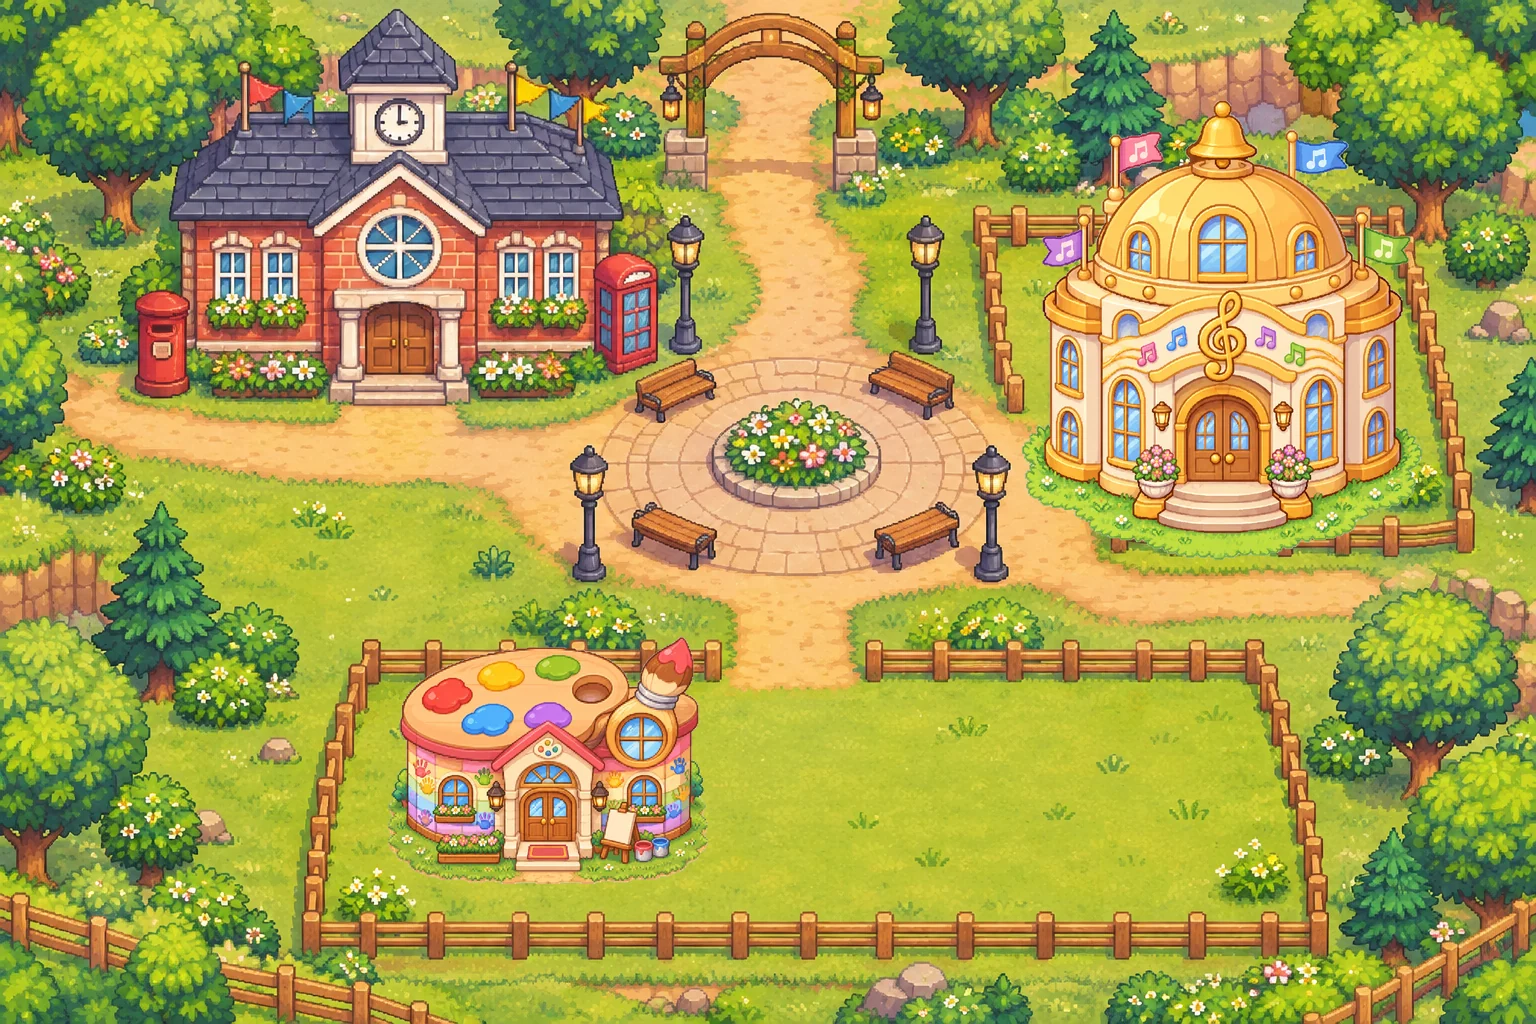
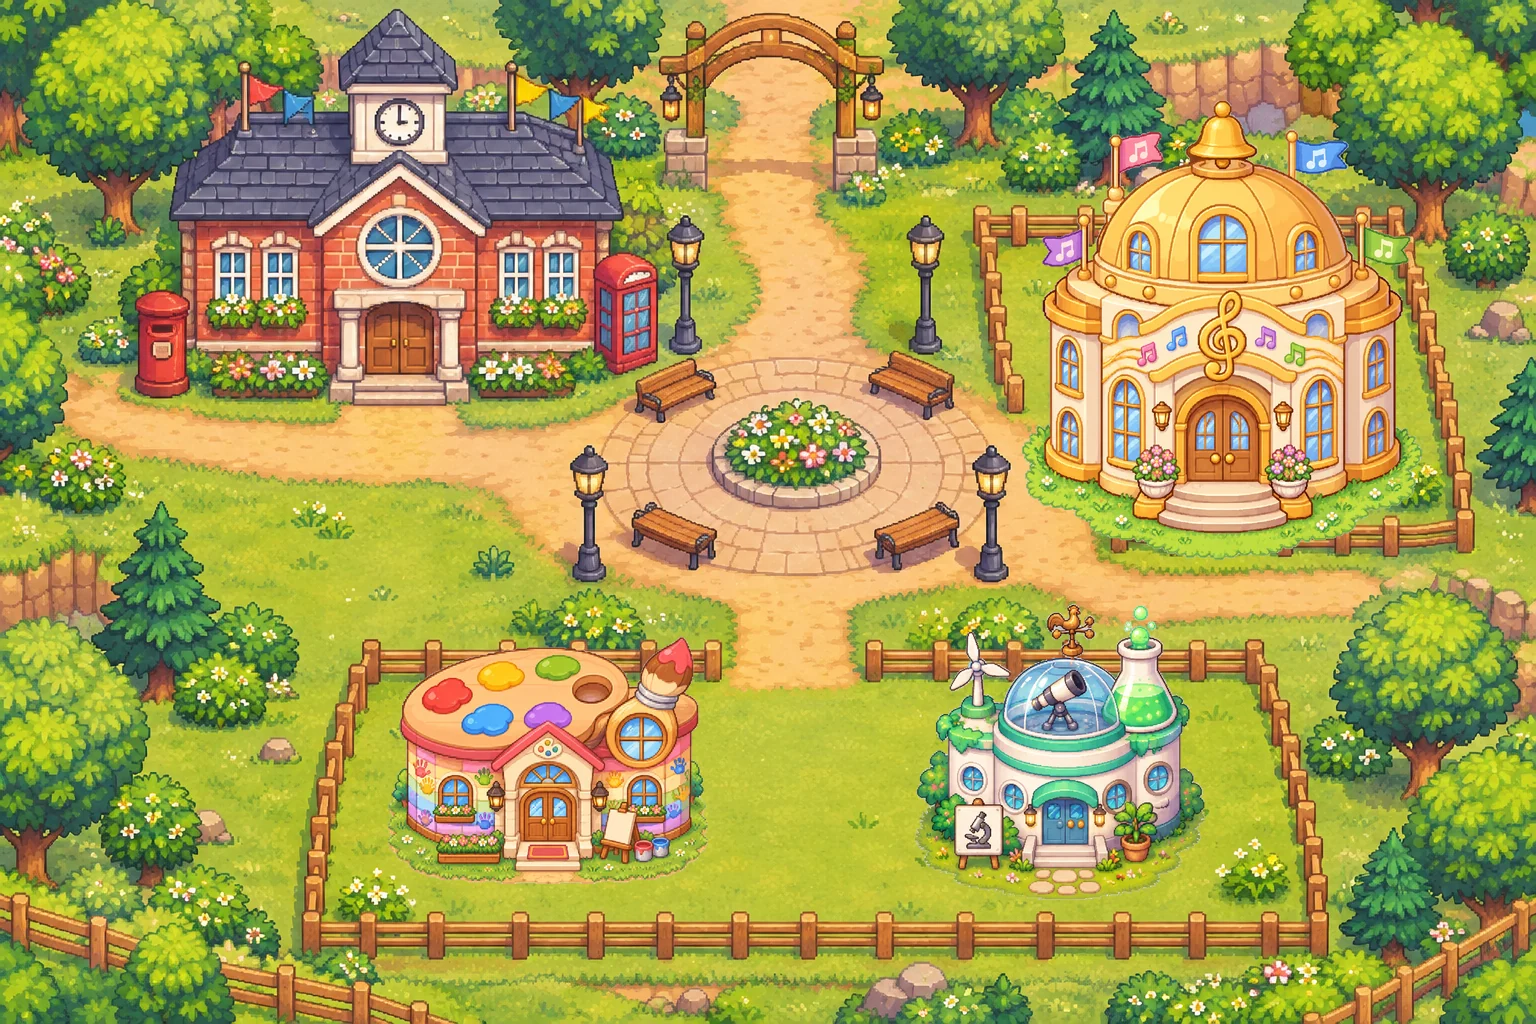
Science lab building, three room maps and 궁금 박사
Put the science lab next to the art museum on 교과 언덕, trace the
three grade rooms over their pictures, add the 궁금 박사 NPC and replace
the temporary entrance with a grade picker door. Build 23.

Claude-Session: https://claude.ai/code/session_015rRJ5HYZpVswbA4n6xguLu

Changed region(s): [[0.5938, 0.5938, 0.7812, 0.875]]

diff --git a/village/js/maps.js b/village/js/maps.js
@@ -161,7 +161,7 @@ const Maps = (() => {
 
   // ───────────────────────── 교과 언덕 ─────────────────────────
   // 그림 1536x1024를 48x32칸으로 나눠요. 위쪽 아치 문은 배움 동산으로 이어져요.
-  // 영어 학교 문에 들어가면 학년(1-2, 3-4, 5-6)을 골라요. 울타리 친 빈 땅 두 곳은 나중에 다른 교과 건물 자리예요.
+  // 영어 학교 문에 들어가면 학년(1-2, 3-4, 5-6)을 골라요. 오른쪽 땅에는 음악당, 아래쪽 땅에는 미술관과 과학 연구소가 있어요.
   const SUBJECTS = {
     id: "subjects", name: "교과 언덕", w: 48, h: 32, img: "assets/subjects.webp", backdrop: "#4e8a3a",
     walk: [[3, 12, 31, 19], [22, 2, 27, 11], [32, 17, 43, 19], [23, 20, 26, 21], [4, 20, 9, 26], [11, 11, 12, 11],
@@ -173,7 +173,8 @@ const Maps = (() => {
       [23, 13, 26, 15], [18, 14, 18, 17], [31, 14, 31, 17],          // 꽃밭, 아래 가로등
       [19, 16, 22, 17], [27, 16, 29, 17],                           // 아래 벤치
       [31, 12, 31, 13],                                             // 오른쪽 울타리 끝
-      [12, 20, 22, 25], [12, 26, 15, 26], [18, 26, 22, 26]          // 미술관 건물(앞문 16~17은 열어 둬요)
+      [12, 20, 22, 25], [12, 26, 15, 26], [18, 26, 22, 26],         // 미술관 건물(앞문 16~17은 열어 둬요)
+      [29, 21, 37, 25], [29, 26, 31, 26], [34, 26, 37, 26], [30, 27, 31, 27] // 과학 연구소 건물과 간판(앞문 32~33)
     ],
     doors: [
       { id: "engschool", x: 11, y: 11, w: 2, out: { x: 11, y: 13, dir: "down" }, pick: ["eng12", "eng34", "eng56"], name: "영어 학교", emoji: "🔤" },
@@ -183,14 +184,14 @@ const Maps = (() => {
       // 아래쪽 땅: 미술관(울타리 위쪽 틈으로 들어가서 앞문으로). 학년 방 3개와 우리 반 전시실을 골라요.
       { id: "artmuseum", x: 16, y: 26, w: 2, out: { x: 17, y: 27, dir: "down" }, pick: ["art12", "art34", "art56"], name: "미술관", emoji: "🎨",
         extra: [{ emoji: "🏛", name: "우리 반 전시실", activity: "artgallery", sub: () => "친구들 그림 구경 · " + Net.gallery.length + "점" }] },
-      // 미술관 오른쪽 땅: 과학 연구소 자리. 건물 그림이 오기 전까지는 이 자리에서 과학 방 고르기 창이 열려요.
-      { id: "scilab", x: 31, y: 24, w: 2, activity: "scihub", out: { x: 31, y: 26, dir: "up" }, name: "과학 연구소", emoji: "🔬" }
+      // 미술관 오른쪽: 과학 연구소(앞문으로 들어가서 학년 방을 골라요)
+      { id: "scilab", x: 32, y: 26, w: 2, out: { x: 32, y: 27, dir: "down" }, pick: ["sci12", "sci34", "sci56"], name: "과학 연구소", emoji: "🔬" }
     ],
-    areas: [{ id: "engschool", r: [5, 0, 19, 10] }, { id: "musichall", r: [32, 3, 44, 16] }, { id: "artmuseum", r: [12, 20, 22, 26] }],
+    areas: [{ id: "engschool", r: [5, 0, 19, 10] }, { id: "musichall", r: [32, 3, 44, 16] }, { id: "artmuseum", r: [12, 20, 22, 26] }, { id: "scilab", r: [29, 21, 37, 26] }],
     spawn: { x: 24, y: 4, dir: "down" },
     npcs: [
       { id: "jenny", name: "제니 선생님", x: 15, y: 14, dir: "down",
-        lines: ["Hello! 나는 제니 선생님이야. 여기는 교과 언덕이야.", "빨간 벽돌 건물이 영어 학교야. 들어가면 1-2학년, 3-4학년, 5-6학년 방을 고를 수 있어.", "울타리 친 빈 땅에는 곧 다른 교과 건물이 생길 거야. See you!"] }
+        lines: ["Hello! 나는 제니 선생님이야. 여기는 교과 언덕이야.", "빨간 벽돌 건물이 영어 학교야. 들어가면 1-2학년, 3-4학년, 5-6학년 방을 고를 수 있어.", "오른쪽에는 음악당, 아래쪽 울타리 땅에는 미술관과 과학 연구소가 있어. See you!"] }
     ]
   };
 
@@ -242,6 +243,25 @@ const Maps = (() => {
       stations: [{ x: q.solid[0][0], y: 7, w: q.solid[0][2] - q.solid[0][0] + 1, h: 3, activity: id, label: "📝 미션 탁자" }].concat(q.stations || []),
       npcs: [{ id: "allok", name: "알록 선생님", x: 6, y: 8, dir: "right", activity: id, actionLabel: "📝 미션 시작",
         lines: ["안녕! 여기는 " + q.name + "이야.", "가운데 탁자에서 미술 미션을 풀 수 있어. 퀴즈 10개와 만들기 1개가 있어!", "그린 그림은 우리 반 전시실에 걸어서 친구들에게 보여 줄 수 있어."] }]
+    };
+  });
+
+  // 과학 방: 그림 크기가 방마다 달라서 칸 수도 달라요(한 칸이 그림에서 약 32px). 아래 가운데 문, 가운데 긴 탁자.
+  const SCI_ROOMS = {
+    sci12: { name: "탐구 놀이방", emoji: "🌱", w: 24, h: 16, floor: [2, 8, 19, 13], door: { x: 11, y: 14, w: 2 }, table: [8, 9, 14, 11], npc: [6, 9],
+      solid: [[2, 8, 5, 9], [2, 10, 4, 12], [6, 8, 14, 8], [15, 8, 19, 9], [2, 13, 6, 13], [16, 13, 18, 13]] },
+    sci34: { name: "실험실", emoji: "🧪", w: 20, h: 16, floor: [1, 8, 18, 12], door: { x: 10, y: 13, w: 2 }, table: [7, 9, 13, 11], npc: [4, 10],
+      solid: [[1, 8, 4, 8], [1, 9, 3, 12], [17, 8, 18, 12], [4, 12, 5, 12], [16, 12, 17, 12]] },
+    sci56: { name: "연구소", emoji: "⚡", w: 19, h: 16, floor: [1, 8, 17, 12], door: { x: 8, y: 13, w: 2 }, table: [6, 8, 12, 10], npc: [4, 8],
+      solid: [[1, 8, 3, 10], [1, 11, 2, 12], [14, 8, 16, 9], [17, 8, 17, 9], [16, 11, 17, 12], [3, 12, 4, 12], [14, 12, 15, 12]] }
+  };
+  Object.entries(SCI_ROOMS).forEach(([id, q]) => {
+    const [x0, y0, x1, y1] = q.table;
+    ROOMS[id] = {
+      name: q.name, emoji: q.emoji, parent: "subjects", w: q.w, h: q.h, floor: q.floor, door: q.door, solid: q.solid,
+      stations: [{ x: x0, y: y0, w: x1 - x0 + 1, h: y1 - y0 + 1, activity: id, label: "📝 미션 탁자" }],
+      npcs: [{ id: "gungeum", name: "궁금 박사", x: q.npc[0], y: q.npc[1], dir: "right", activity: id, actionLabel: "📝 미션 시작",
+        lines: ["안녕! 나는 궁금 박사야. 여기는 " + q.name + "이야.", "가운데 탁자에서 과학 미션을 풀 수 있어. 퀴즈 10개와 실험 1개가 있어!", "궁금한 건 직접 해 보면 알 수 있어. 10문제 중 8문제를 맞히면 통과!"] }]
     };
   });
 

diff --git a/village/js/q-sci.js b/village/js/q-sci.js
@@ -341,19 +341,4 @@
       } }
     ]
   });
-  // 🔬 과학 연구소 입구(건물 그림이 오기 전까지 쓰는 임시 창)
-  Activities.register("scihub", ({ el, frame, ctx }) => {
-    const root = frame("🔬 과학 연구소: 몇 학년 방으로 갈까요?");
-    root.append(Quiz.npcBanner(el, Quiz.NPCS.sci, "안녕! 나는 궁금 박사야. 궁금한 건 실험으로 알아보자!"));
-    const grid = el("div", "qz-missions");
-    Quiz.rooms.filter((r) => r.id.startsWith("sci")).forEach((r) => {
-      const p = ctx.getProgress(r.id) || { done: [] };
-      const all = p.done.length === r.missions.length;
-      const b = el("button", "qz-mission" + (all ? " done" : ""), "<span>" + r.e + "</span><b>" + r.grade.replace(/^\S+ /, "") + "</b><small>" + r.title + " · " + (all ? "✅ 도장" : "미션 " + p.done.length + "/" + r.missions.length) + "</small>");
-      b.onclick = () => { ctx.sfx("door"); Activities.open(r.id); };
-      grid.append(b);
-    });
-    root.append(grid);
-    ctx.speak("과학 연구소예요. 몇 학년 방으로 갈까요?");
-  });
 })();

diff --git a/village/sw.js b/village/sw.js
@@ -1,7 +1,7 @@
 // 꼬마 발명가 마을 오프라인 지원
 // 인터넷이 되면 항상 새 버전을 받아 오고, 안 되면 저장해 둔 버전을 보여 줘요.
 // (친구들과 함께 놀기는 인터넷이 있어야 해요. 혼자 둘러보기는 저장분으로도 돼요.)
-const CACHE = "village-v22";
+const CACHE = "village-v23";
 const FILES = [
   "./",
   "./index.html",
@@ -48,6 +48,9 @@ const FILES = [
   "./assets/art12.webp",
   "./assets/art34.webp",
   "./assets/art56.webp",
+  "./assets/sci12.webp",
+  "./assets/sci34.webp",
+  "./assets/sci56.webp",
   "./assets/npc/chief.webp",
   "./assets/npc/bolt.webp",
   "./assets/npc/snap.webp",
@@ -60,6 +63,7 @@ const FILES = [
   "./assets/npc/jenny.webp",
   "./assets/npc/lala.webp",
   "./assets/npc/allok.webp",
+  "./assets/npc/gungeum.webp",
   "./icons/icon-192.png",
   "./icons/icon-512.png",
   "./icons/icon-180.png"

diff --git a/village/js/main.js b/village/js/main.js
@@ -5,7 +5,7 @@
   // 화면(index.html)과 프로그램(js)의 버전이 서로 다르면 한 번 새로 불러와요.
   // 업데이트 직후에 화면만 예전 것으로 남으면 새 기능의 모양(CSS)이 빠져 보이기 때문이에요.
   // 버전을 올릴 때는 여기 BUILD, index.html의 data-build, sw.js의 CACHE 세 곳을 같은 숫자로 맞춰요.
-  const BUILD = "22";
+  const BUILD = "23";
   try {
     if (document.documentElement.dataset.build !== BUILD && sessionStorage.getItem("village-rebuild") !== BUILD) {
       sessionStorage.setItem("village-rebuild", BUILD);

diff --git a/village/index.html b/village/index.html
@@ -1,5 +1,5 @@
 <!DOCTYPE html>
-<html lang="ko" data-build="22">
+<html lang="ko" data-build="23">
 <head>
 <meta charset="UTF-8">
 <meta name="viewport" content="width=device-width, initial-scale=1.0, maximum-scale=1.0, user-scalable=no, viewport-fit=cover">

diff --git a/tools/village/cut_npcs.py b/tools/village/cut_npcs.py
@@ -10,7 +10,7 @@ from pathlib import Path
 from PIL import Image
 
 OUT = Path(__file__).resolve().parents[2] / "village" / "assets" / "npc"
-NAMES = ["chief", "bolt", "sprout", "snap", "luna", "tinker", "farmer", "semsem", "mallang", "jenny", "lala", "allok"]
+NAMES = ["chief", "bolt", "sprout", "snap", "luna", "tinker", "farmer", "semsem", "mallang", "jenny", "lala", "allok", "gungeum"]
 HEIGHT = 180  # 저장할 그림 높이(px)
 STEP = 7      # 이웃 칸과 이만큼(채널마다) 넘게 다르면 배경이 아니에요
 

diff --git a/tools/village/make_art.py b/tools/village/make_art.py
@@ -15,8 +15,9 @@ OUT = HERE.parents[1] / "village" / "assets"
 BUILDINGS = [
     ("musichall.png", 1222, 560, 400),
     ("artmuseum.png", 548, 884, 320),
+    ("scibuilding.png", 1060, 900, 290),
 ]
-GRAY_ROOMS = ["mus12", "mus34", "mus56", "art12", "art34", "art56"]
+GRAY_ROOMS = ["mus12", "mus34", "mus56", "art12", "art34", "art56", "sci12", "sci34", "sci56"]
 
 
 def cutout(path):

diff --git a/README.md b/README.md
@@ -166,6 +166,10 @@
   - 🖌 미술 3-4 물감 공방: 색의 삼원색, 따뜻한 색·차가운 색, 점·선·면, 선의 종류와 느낌, 무늬 규칙, 미술 기법, 밝은 색·어두운 색, 도구의 쓰임, 자연물과 인공물, 대칭 찾기 + ✏ 픽셀 아트
   - 🖼 미술 5-6 작은 미술관: 보색, 색상환 순서, 색의 3요소, 원근법, 미술 용어, 우리 전통 미술, 오방색, 디자인 원리, 화가와 작품, 입체 재료와 방법 + 🧪 색 섞기 실험실(목표 색 3개 만들기)
   - 🏛 우리 반 전시실: 만들기 미션이나 "그림 그려서 걸기"로 그린 그림을 걸면, 같은 방에 접속한 모두가 볼 수 있어요. 선생님은 그림을 하나씩 내리거나 모두 내릴 수 있어요. 그림은 기기끼리만 주고받고 어디에도 저장하지 않아요(방이 닫히면 사라져요).
+- 🔬 과학 연구소(교과 언덕 아래쪽 땅, 미술관 오른쪽, 궁금 박사): 앞문에서 학년 방을 골라요. 방마다 퀴즈 미션 10개 + 실험 미션 1개(미션마다 10문제, 8문제 통과).
+  - 🌱 과학 1-2 탐구 놀이방(슬기로운 생활): 계절, 살아 있는 것, 집 안 물건, 오감, 날씨, 동물의 새끼, 음식, 뜨고 가라앉기, 자라는 순서, 자연물 + 👕 계절 옷 입히기
+  - 🧪 과학 3-4 실험실: 물체와 물질, 자석, 생물, 동물, 식물, 암석과 화석, 물의 상태, 빛과 그림자, 소리, 무게 + 🌡 물의 변신 실험(온도를 바꿔 얼음·수증기·물 만들기)
+  - ⚡ 과학 5-6 연구소: 전기 회로, 용해와 용액, 날씨, 태양계, 식물의 구조, 산과 염기, 우리 몸, 지구와 달, 에너지, 연소 + 💡 전기 회로 실험(전기가 통하는 물질로 전구 켜기)
 - 🎵 음악당(교과 언덕 오른쪽, 라라 선생님): 학년을 골라 음악 방으로 가요. 소리 문제는 실제 음을 들려주고(질문을 읽은 뒤 울려요, 🔊 다시 듣기로 소리만 다시), 듣는 동안 배경 음악은 잠깐 꺼져요.
   - 🥁 음악 1-2 노래 놀이방: 높은 소리·낮은 소리, 빠르게·느리게, 크게·작게, 악기 이름, 소리 세기
     - 교실이 시끄러워도 풀 수 있게 소리마다 동그라미가 나타나요(높은 소리는 위에, 큰 소리는 크게, 빠른 노래는 촘촘하게). 첫 번째·두 번째 칸을 누르면 그 소리만 다시 들려줘요. 소리는 태블릿 스피커에서 잘 들리는 높이와 또렷한 음색으로 울려요.
@@ -196,6 +200,7 @@
 - `village/js/quiz.js`: 배움 동산 문제 방 공통 틀(미션 고르기, 5문제 풀기, 숫자 패드, 시계·분수·각도·도형 그림)
 - `village/js/q-math.js`, `village/js/q-korean.js`, `village/js/q-english.js`: 수학·국어·영어 방 9개(음악 방은 아래 q-music.js)의 미션과 문제(만드는 규칙과 문제 은행). 문제를 고치거나 늘릴 때 여기를 고쳐요.
 - `village/js/q-art.js`: 미술 방 3개의 미션과 문제(방마다 퀴즈 10개 + 만들기 1개). `village/js/art-tools.js`: 그림판(데칼코마니), 픽셀 아트, 색 섞기, 우리 반 전시실.
+- `village/js/q-sci.js`: 과학 방 3개의 미션과 문제(방마다 퀴즈 10개 + 실험 1개).
 - `village/js/q-music.js`: 음악 방 3개의 미션과 문제. 소리는 `play: [{ f: 주파수, at: 시작 초, d: 길이 }]`로 적어요.
 - `tools/village/make_art.py`, `tools/village/art/`: 교과 언덕 원본(빈 땅) 위에 새 교과 건물 그림을 올려 `subjects.webp`를 만들고, 회색 바탕으로 온 방 그림의 바깥을 지워요. 새 교과 건물은 `BUILDINGS`에 한 줄 넣고 다시 실행해요.
 - `village/js/act-garden.js`, `act-greenhouse.js`, `act-observatory.js`, `act-workshop.js`: 반복 정원, 관찰 온실, 별 관측소, 발명 공방 활동. 단계·문제·부품이 파일 맨 위에 있어요.
